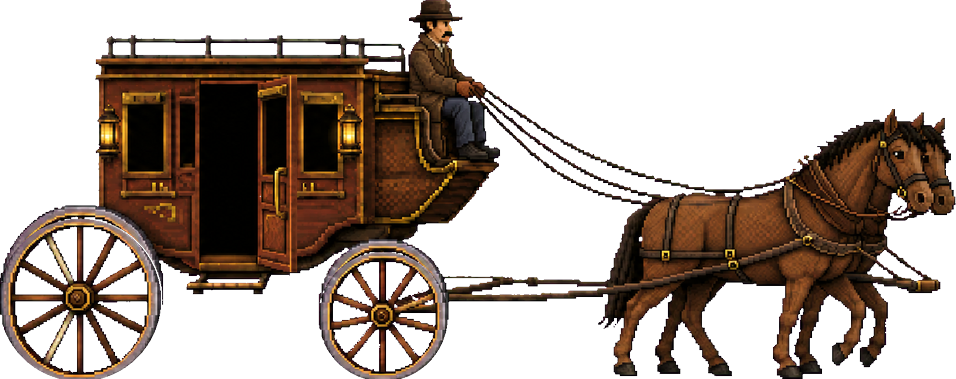
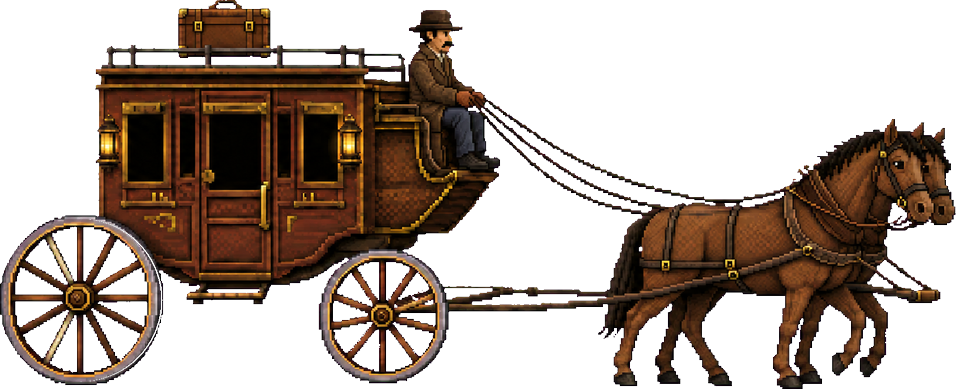
Positions measured against the coach's real features, and it stops growing
The coach moves to x1390, where its hotspot (1152-1632) and case_roof
(1236) have always said it belongs. Measured its own features in world
coordinates from the sprite: doorway 1008-1341, driver 1332-1364, horses
1485-1866.

Thad alights AT the doorway at 1170 and speaks from IN FRONT of the box
at (1330, 800), nearer the camera. There is no room to stand between the
driver and the horses. He had been at (820, 760) -- inside the vehicle's
span, eighteen pixels ahead of it, standing among the team.

The coach's walk clip is now the same frame as idle. It had been the
door-OPEN body, 379 tall against idle's 389 on the same canvas, so the
coach grew 2.6% the instant it moved. A coach leaves with its door shut
anyway.

Hob now stops mid-crossing at x1080 for his exchange and walks on
afterwards. Three lines from a man who never breaks stride is not the
beat.

diff --git a/docs/43-room-01-staging-script.md b/docs/43-room-01-staging-script.md
@@ -35,6 +35,17 @@
 
 **The coach stands at x 1390, wheels on the road at y 742.** That centres its 956px width on the hotspot's 1152–1632.
 
+**Its own features, in world coordinates, measured from the sprite:**
+
+| | World x |
+|---|---|
+| The whole assembly | 912 – 1868 |
+| The doorway | **1008 – 1341** |
+| The driver on the box | **1332 – 1364** |
+| The horses | **1485 – 1866** |
+
+**There is no room to stand between the driver and the horses.** Thad speaks from *in front of* the box, nearer the camera, not beside it. He previously stood at (820, 760) — inside the vehicle's own span, eighteen pixels ahead of it, among the horses.
+
 Everything below assumes that. **It is the single largest correction in this document.**
 
 ---
